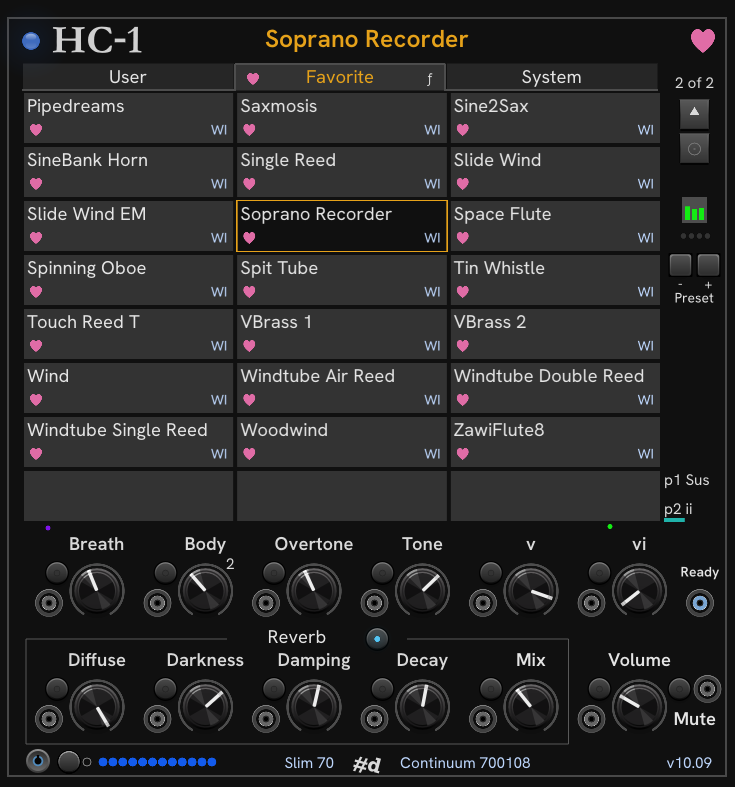
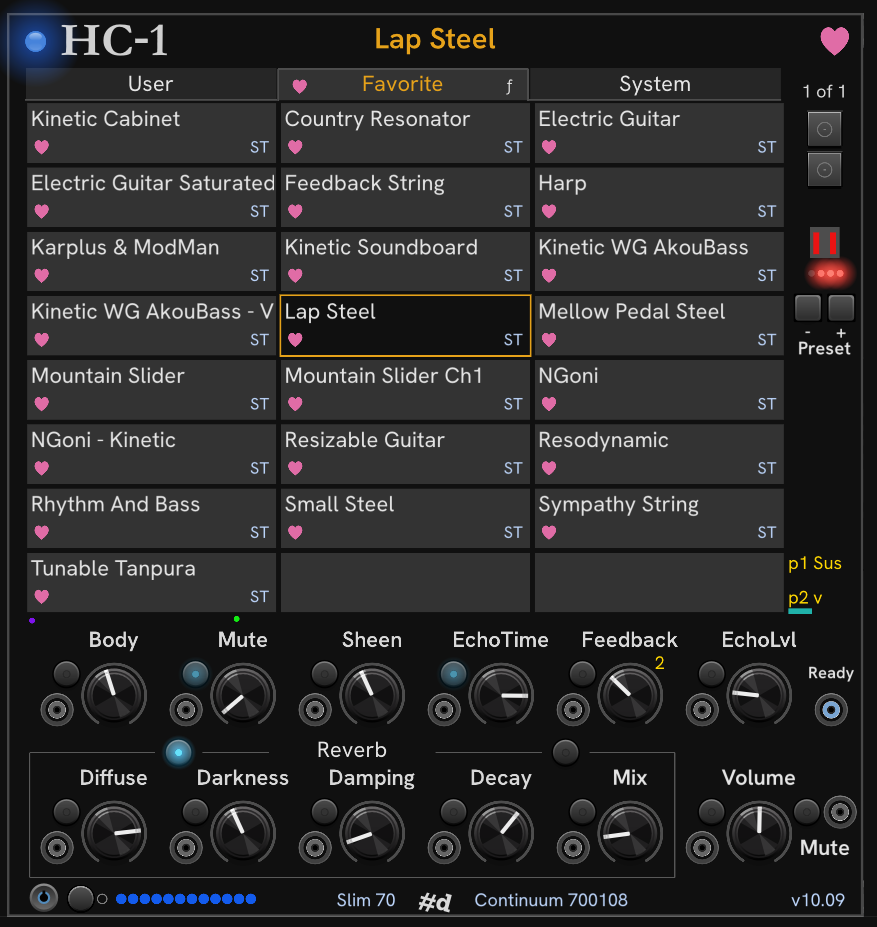
#22 Recirculator on/off

Changed region(s): [[0.0, 0.0, 1.0, 1.0], [0.0599, 0.6709, 0.1796, 0.7929]]

diff --git a/src/HC-1/HC-1-draw.cpp b/src/HC-1/HC-1-draw.cpp
@@ -268,9 +268,11 @@ void Hc1ModuleWidget::draw(const DrawArgs& args)
 #endif
         
         // recirculator
-        { // todo: move lines to SVG
-            Line(vg, RECIRC_BOX_LEFT, RECIRC_BOX_TOP, RECIRC_BOX_CENTER - (RECIRC_TITLE_WIDTH * .5f), RECIRC_BOX_TOP, RampGray(G_35), .5f);
-            Line(vg, RECIRC_LIGHT_CENTER + 15.f, RECIRC_BOX_TOP, RECIRC_BOX_RIGHT, RECIRC_BOX_TOP, RampGray(G_35), .5f);
+        {
+            Line(vg, RECIRC_BOX_LEFT, RECIRC_BOX_TOP, RECIRC_ENABLE_CENTER - 10.f, RECIRC_BOX_TOP, RampGray(G_35), .5f);
+            Line(vg, RECIRC_ENABLE_CENTER + 10.f, RECIRC_BOX_TOP, RECIRC_BOX_CENTER - RECIRC_TITLE_WIDTH *.5, RECIRC_BOX_TOP, RampGray(G_35), .5f);
+            Line(vg, RECIRC_BOX_CENTER + RECIRC_TITLE_WIDTH *.5, RECIRC_BOX_TOP, RECIRC_EXTEND_CENTER - 10.f, RECIRC_BOX_TOP, RampGray(G_35), .5f);
+            Line(vg, RECIRC_EXTEND_CENTER + 10.f, RECIRC_BOX_TOP, RECIRC_BOX_RIGHT, RECIRC_BOX_TOP, RampGray(G_35), .5f);
             Line(vg, RECIRC_BOX_LEFT,  RECIRC_BOX_TOP,    RECIRC_BOX_LEFT,  RECIRC_BOX_BOTTOM, RampGray(G_35), .5f);
             Line(vg, RECIRC_BOX_RIGHT, RECIRC_BOX_TOP,    RECIRC_BOX_RIGHT, RECIRC_BOX_BOTTOM, RampGray(G_35), .5f);
             Line(vg, RECIRC_BOX_LEFT,  RECIRC_BOX_BOTTOM, RECIRC_BOX_RIGHT, RECIRC_BOX_BOTTOM, RampGray(G_35), .5f);

diff --git a/src/HC-1/HC-1.hpp b/src/HC-1/HC-1.hpp
@@ -37,6 +37,8 @@ struct Hc1Module : IPresetHolder, ISendMidi, IMidiDeviceHolder, IMidiDeviceChang
         R1_REL_PARAM, R2_REL_PARAM, R3_REL_PARAM, R4_REL_PARAM, RMIX_REL_PARAM,
         VOLUME_REL_PARAM,
         RECIRC_EXTEND_PARAM,
+        RECIRC_ENABLE_PARAM,
+
         NUM_PARAMS,
         FIRST_REL_PARAM = M1_REL_PARAM,
     };
@@ -60,6 +62,7 @@ struct Hc1Module : IPresetHolder, ISendMidi, IMidiDeviceHolder, IMidiDeviceChang
         HEART_LIGHT,
         MUTE_LIGHT,
         RECIRC_EXTEND_LIGHT,
+        RECIRC_ENABLE_LIGHT,
         ROUND_Y_LIGHT, ROUND_INITIAL_LIGHT, ROUND_LIGHT, ROUND_RELEASE_LIGHT,
         //TRANSPOSE_UP_LIGHT, TRANSPOSE_NONE_LIGHT, TRANSPOSE_DOWN_LIGHT,
 //        FILTER_LIGHT,
@@ -328,6 +331,7 @@ struct Hc1Module : IPresetHolder, ISendMidi, IMidiDeviceHolder, IMidiDeviceChang
 
     EM_Recirculator recirculatorType() { return em.recirculator.kind(); }
     bool isExtendRecirculator() { return em.recirculator.extended(); }
+    bool isRecirculatorDisabled() { return em.recirculator.disabled(); }
     const std::string recirculatorName() { return em.recirculator.name(); }
     const std::string recirculatorParameterName(int r) { return em.recirculator.parameter_name(r); }
     void setRecirculatorCCValue(int id, uint8_t value);

diff --git a/src/HC-1/HC-1-midi.cpp b/src/HC-1/HC-1-midi.cpp
@@ -99,6 +99,15 @@ void Hc1Module::onChannel16CC(uint8_t cc, uint8_t value)
             preset0.bank_lo = value;
             break;
 
+        case EMCC_ActionAesMenuRecirc:
+            // TODO: Action, AES rate, Menu font also packed into this byte
+            if (value != em.global_ActionAesMenuRecirc) {
+                em.global_ActionAesMenuRecirc = value;
+                em.recirculator.setDisabled(value & 0x40);
+                getParamQuantity(RECIRC_ENABLE_PARAM)->setValue(static_cast<float>(em.recirculator.enabled()));
+            }
+            break;
+
         case EMCC_PedalType: {
             auto new_p1 = static_cast<PedalType>(value & 0x07);
             bool p1_change = new_p1 != em.pedal1.type;
@@ -209,7 +218,7 @@ void Hc1Module::onChannel16CC(uint8_t cc, uint8_t value)
         } break;
 
         case EMCC_RecirculatorType:
-            em.recirculator = value;
+            em.recirculator.setValue(value);
             getParamQuantity(RECIRC_EXTEND_PARAM)->setValue(isExtendRecirculator() * 1.f);
             break;
 

diff --git a/src/HC-1/HC-1-ui.cpp b/src/HC-1/HC-1-ui.cpp
@@ -401,7 +401,8 @@ void Hc1ModuleWidget::createUi()
     addChild(createInputCentered<ColorPort>(                                   Vec(RKNOB_LEFT + 5.f * KNOB_SPREAD + RB_OFFSET + 14.f, CV_ROW_2 - RB_VOFFSET), my_module, Hc1in::MUTE_INPUT));
     addChild(createStaticTextLabel<StaticTextLabel>(Vec(RKNOB_LEFT + KNOB_SPREAD * 5.f + 17.f, KNOB_ROW_2), 25.f, "Mute", TextAlignment::Left));
 
-    addParam(createLightParamCentered<PDLightLatch<TinySimpleLight<BlueLight>>>(Vec(RECIRC_LIGHT_CENTER, RECIRC_BOX_TOP), my_module, Hc1p::RECIRC_EXTEND_PARAM, Hc1lt::RECIRC_EXTEND_LIGHT));
+    addParam(createLightParamCentered<PDLightLatch<TinySimpleLight<BlueLight>>>(Vec(RECIRC_EXTEND_CENTER, RECIRC_BOX_TOP), my_module, Hc1p::RECIRC_EXTEND_PARAM, Hc1lt::RECIRC_EXTEND_LIGHT));
+    addParam(createLightParamCentered<PDLightLatch<TinySimpleLight<BlueLight>>>(Vec(RECIRC_ENABLE_CENTER, RECIRC_BOX_TOP), my_module, Hc1p::RECIRC_ENABLE_PARAM, Hc1lt::RECIRC_ENABLE_LIGHT));
 
 #ifdef TRANSPOSE_BUTTONS
     createTranspose();

diff --git a/src/em_types/em_recirculator.hpp b/src/em_types/em_recirculator.hpp
@@ -11,19 +11,24 @@ using namespace em_midi;
 struct Recirculator
 {
     uint8_t r;
+    bool disable;
 
-    Recirculator() : r(0) {}
-    Recirculator(uint8_t value): r(value) {}
+    Recirculator() : r(0), disable(false) {}
     
-     operator uint8_t() const { return r; }
+    operator uint8_t() const { return r; }
 
+    void setValue(uint8_t R) { r = R; }
+    uint8_t getValue() { return r; }
     void clear() { r = 0; }
 
     bool extended() { return r & EM_Recirculator::Extend; }
+    bool disabled() { return disable; }
+    bool enabled() { return !disable; }
 
     void setExtended(bool extended) {
         r = extended ? (r | EM_Recirculator::Extend) : (r & ~EM_Recirculator::Extend);
     }
+    void setDisabled(bool value) { disable = value; }
 
     void setKind(EM_Recirculator kind) {
         r = (r & EM_Recirculator::Extend) | (kind & EM_Recirculator::Mask);

diff --git a/src/HC-1/HC-1-process.cpp b/src/HC-1/HC-1-process.cpp
@@ -79,6 +79,18 @@ void Hc1Module::processAllCV()
         }
         getLight(Lights::RECIRC_EXTEND_LIGHT).setBrightness(isExtendRecirculator() * 1.0f);
     }
+    // recirculator enabled
+    {
+        auto pq = getParamQuantity(RECIRC_ENABLE_PARAM);
+        bool disabled = pq->getValue() <= 0.5f;
+        if (disabled != em.recirculator.disabled()) {
+            em.recirculator.setDisabled(disabled);
+            em.global_ActionAesMenuRecirc = (em.global_ActionAesMenuRecirc & ~0x40) | (disabled * 0x40);
+            sendControlChange(EM_SettingsChannel, EMCC_ActionAesMenuRecirc, em.global_ActionAesMenuRecirc);
+        }
+        getLight(Lights::RECIRC_ENABLE_LIGHT).setBrightness((!disabled) * 1.0f);
+    }
+
 }
 
 void Hc1Module::processReadyTrigger(bool ready, const ProcessArgs& args)

diff --git a/src/HC-1/HC-1.cpp b/src/HC-1/HC-1.cpp
@@ -44,6 +44,7 @@ Hc1Module::Hc1Module()
     configSwitch(VOLUME_REL_PARAM, 0.f, 1.f, 0.f, "Post level relative-CV", {"off", "on"});
     configSwitch(MUTE_PARAM, 0.f, 1.f, 0.f, "Mute", {"off", "on"});
     configSwitch(RECIRC_EXTEND_PARAM, 0.f, 1.f, 0.f, "Extended recirculator", {"off", "on"});
+    configSwitch(RECIRC_ENABLE_PARAM, 0.f, 1.f, 1.f, "Recirculator enabled", {"off", "on"});
 
     configInput(M1_INPUT, "Macro i");
     configInput(M2_INPUT, "Macro ii");
@@ -68,6 +69,8 @@ Hc1Module::Hc1Module()
     configOutput(READY_TRIGGER, "Ready trigger");
 
     getLight(HEART_LIGHT).setBrightness(.8f);
+    getLight(RECIRC_ENABLE_LIGHT).setBrightness(em.recirculator.enabled() * 1.0f);
+
     clearCCValues();
     loadStartupConfig();
 }

diff --git a/src/em_midi.hpp b/src/em_midi.hpp
@@ -129,10 +129,11 @@ constexpr const uint8_t EMCC_RoundRate 	    = 25;
 constexpr const uint8_t EMCC_PreLevel       = 26;
 constexpr const uint8_t EMCC_Attenuation    = 27;
 constexpr const uint8_t EMCC_RoundInitial   = 28;
-constexpr const uint8_t EMCC_Jack1         = 29;
-constexpr const uint8_t EMCC_Jack2         = 30;
+constexpr const uint8_t EMCC_Jack1          = 29;
+constexpr const uint8_t EMCC_Jack2          = 30;
 constexpr const uint8_t EMCC_Advance        = 31; //127 next, 64=next layer
 constexpr const uint8_t EMCC_Category       = 32;
+constexpr const uint8_t EMCC_ActionAesMenuRecirc = 33;
 
 constexpr const uint8_t EMCC_Routing        = 36;
 constexpr const uint8_t EMCC_PedalType      = 37;

diff --git a/src/HC-1/HC-1-menu.cpp b/src/HC-1/HC-1-menu.cpp
@@ -39,9 +39,9 @@ void Hc1ModuleWidget::addRecirculator(Menu *menu, EM_Recirculator kind)
          [=](){ return my_module->recirculatorType() == kind; },
          [=](){
             bool extend = my_module->em.recirculator.extended();
-            my_module->em.recirculator = Recirculator(kind);
+            my_module->em.recirculator.setKind(kind);
             my_module->em.recirculator.setExtended(extend);
-            my_module->sendControlChange(EM_SettingsChannel, EMCC_RecirculatorType, my_module->em.recirculator);
+            my_module->sendControlChange(EM_SettingsChannel, EMCC_RecirculatorType, my_module->em.recirculator.getValue());
          }
     ));
 }

diff --git a/src/HC-1/HC-1-layout.hpp b/src/HC-1/HC-1-layout.hpp
@@ -35,7 +35,8 @@ constexpr const float RECIRC_BOX_HEIGHT = 52.5f;
 constexpr const float RECIRC_BOX_BOTTOM = RECIRC_BOX_TOP + RECIRC_BOX_HEIGHT;
 constexpr const float RECIRC_TITLE_WIDTH = 70.f;
 constexpr const float RECIRC_BOX_CENTER = RECIRC_BOX_LEFT + RECIRC_BOX_WIDTH *.5f;
-constexpr const float RECIRC_LIGHT_CENTER = RECIRC_BOX_CENTER + (RECIRC_TITLE_WIDTH * .5f) + 5.f;
+constexpr const float RECIRC_EXTEND_CENTER = RKNOB_LEFT + KNOB_SPREAD * 3.5f;
+constexpr const float RECIRC_ENABLE_CENTER = RKNOB_LEFT + KNOB_SPREAD * .5f;
 
 constexpr const float STATUS_LEFT = 48.f;
 constexpr const float STATUS_SPREAD = 4.95f;

diff --git a/src/em.hpp b/src/em.hpp
@@ -24,6 +24,7 @@ struct EaganMatrix
     PedalInfo pedal1;
     PedalInfo pedal2;
     bool reverse_surface;
+    uint8_t global_ActionAesMenuRecirc;
 
     // levels (PreLevel/PostLevel/AudioIn/LineOut/HeadphoneOut)
     // convolution

diff --git a/doc/HC-1.md b/doc/HC-1.md
@@ -150,8 +150,14 @@ and the track around the knob becomes gold, with an indicator dot showing the ef
   CV inputs are processed only after the device has reached "Ready".
 
 - The boxed controls are the Eagan Matrix Recirculator.
-  The labels change to reflect the current preset's Recirculator type and the appropriate R1-R4 and Recirculator Mix (R5).
-  The indicator light button reflects the use of Extended (half-sample rate) computation. You can toggle extended computation on and off by clicking the light button.
+  The labels on the knobs change to reflect the current preset's Recirculator type and the appropriate R1-R4 and Recirculator Mix (R5) assignments.
+  When you see a number next a knob, it means that the corresponding pedal is assigned to that parameter. (You can change pedal assignments using the **Pedal 1** and **Pedal 2** modules.)
+
+  The left light button enables and disables the recirculator. When lit the recirculator is active.
+  Recirculator on/off is global and doesn't change between presets.
+  The right light button reflects the use of Extended (half-sample rate) computation.
+  You can toggle extended computation on and off by clicking the light button.
+
 
   You can temporarily change the Recirculator type in the **Recirculator** menu.
   Changes in recirculator type and extended mode are not saved.
